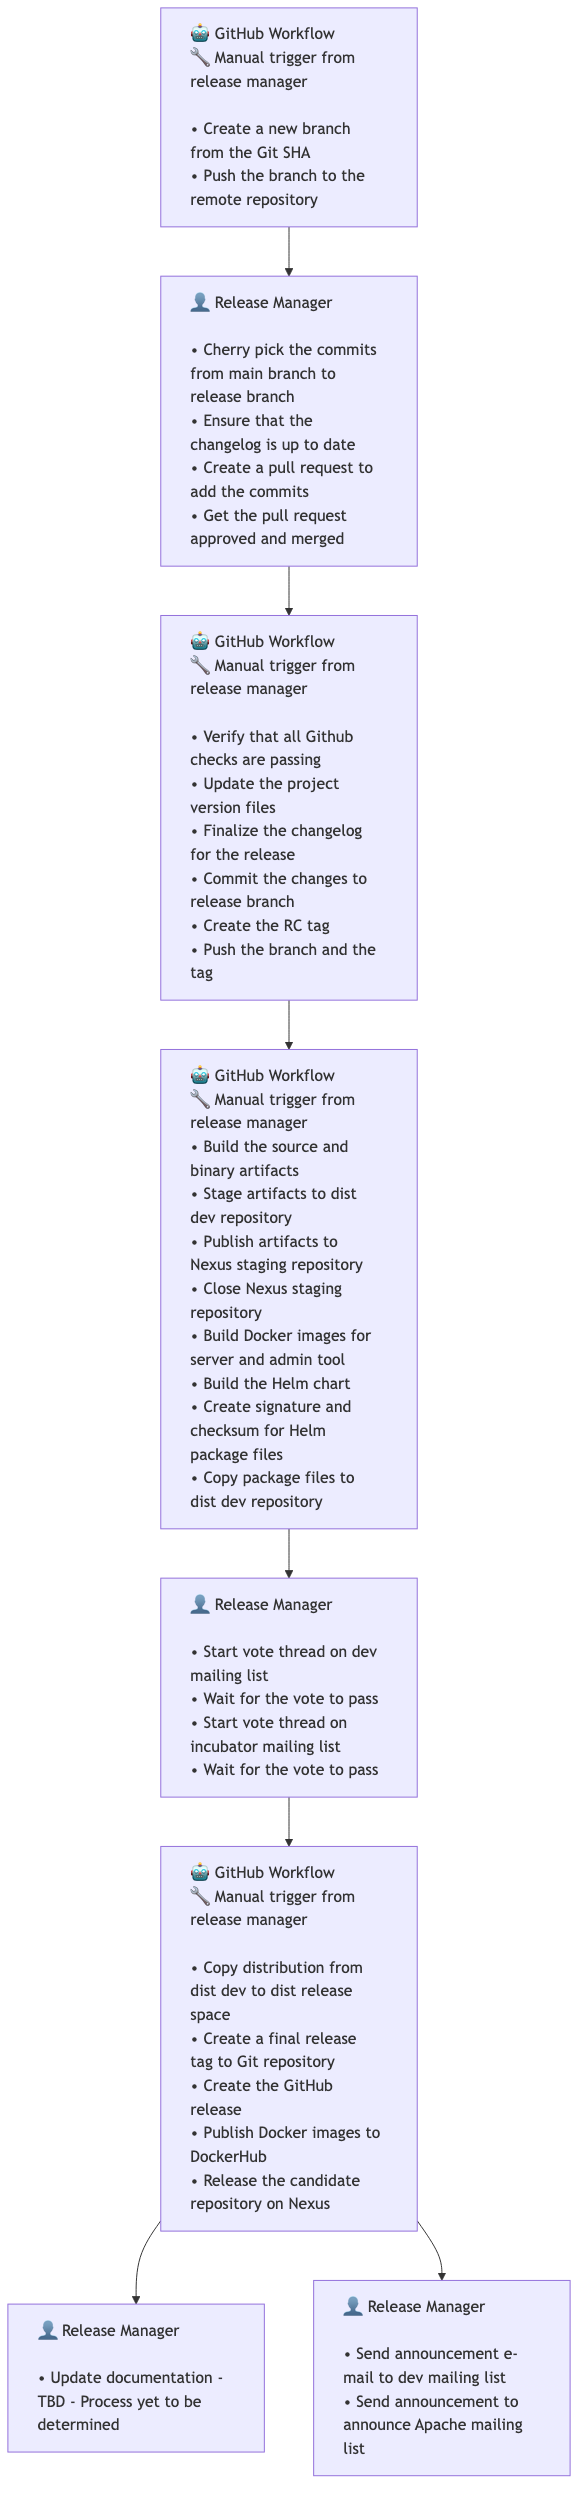
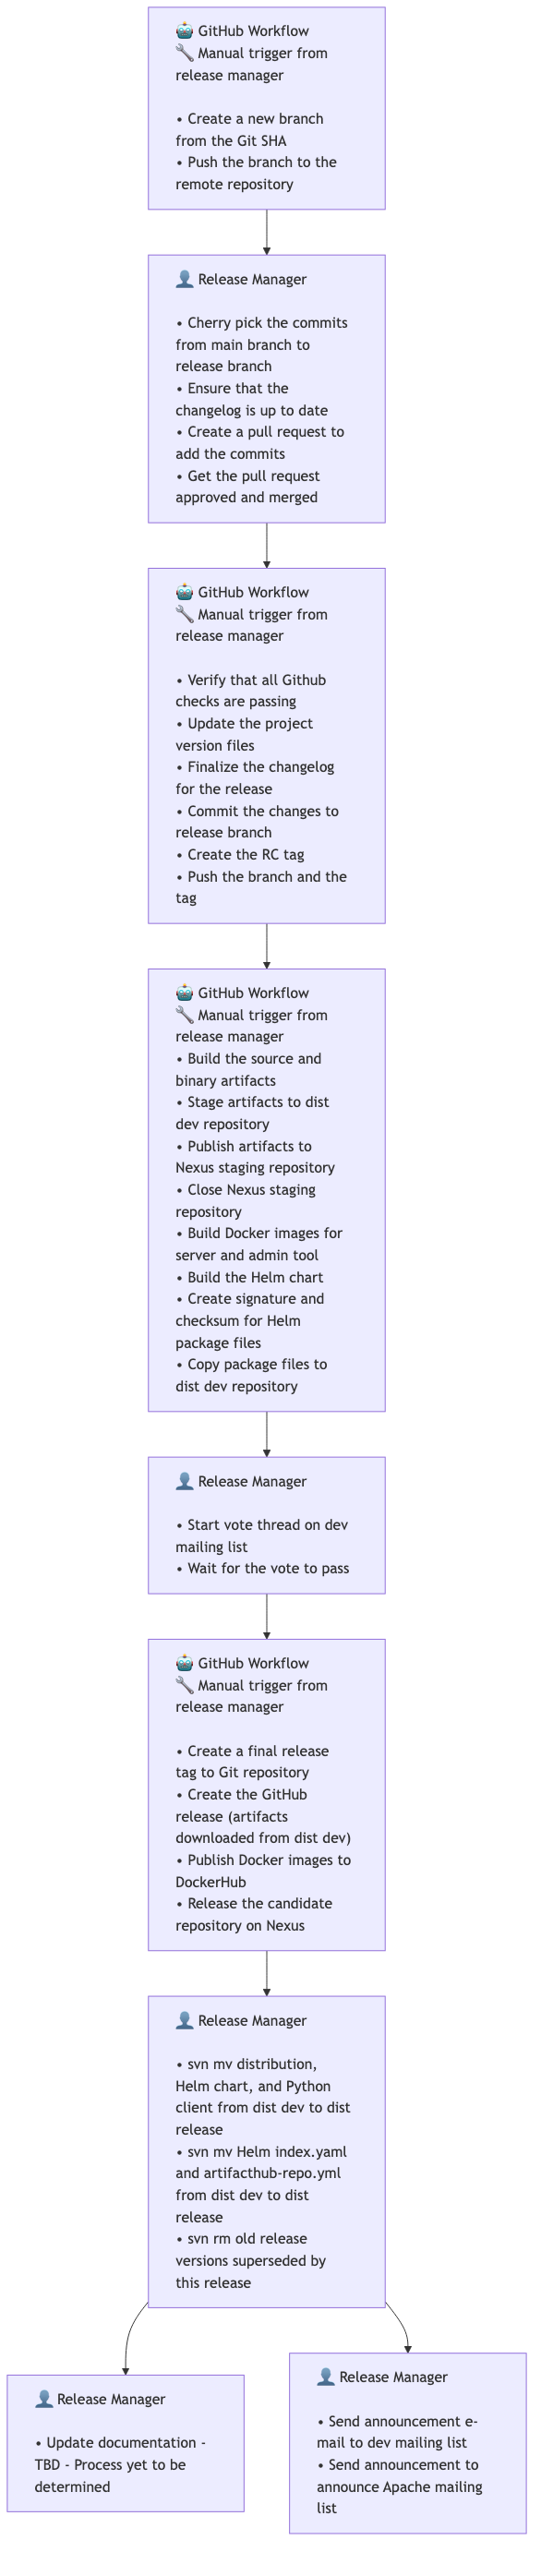
Release workflow 4: drop SVN release-area writes, document manual dev → release move
The credentials used by the release workflow do not have write access
to the dist release SVN area, so the dev → release move, the helm
index transfer, and the cleanup of superseded versions must be
performed manually by a PMC member after the workflow completes.
The remaining workflow steps (final tag, GitHub release, Docker push,
Nexus release) now read artifacts from dist dev via `svn export`,
leaving them in place for the manual move.

* Remove the three steps that wrote to `release/polaris` (artifact
  `svn mv`, old-version `svn rm`, and helm index `svn mv`).
* Switch the GitHub release and Python-client `svn export` sources
  from `release/polaris` to `dev/polaris`; non-destructive so the
  manual move remains possible.
* Update the workflow summary, releasey README, and the release
  process flowchart to describe the new manual step.
* Add a "Manual steps on dist.apache.org" subsection to the
  semi-automated release guide with the exact `svn` commands.

Changed region(s): [[0.3072, 0.0, 0.8908, 0.9913], [0.0614, 0.8983, 0.3686, 0.9913]]

diff --git a/site/content/community/release-guides/semi-automated-release-guide.md b/site/content/community/release-guides/semi-automated-release-guide.md
@@ -164,16 +164,60 @@ We will proceed with publishing the approved artifacts and sending out the annou
 ## Publish the release
 The final workflow to run is [`Release - 4 - Publish Release After Vote Success`](https://github.com/apache/polaris/actions/workflows/release-4-publish-release.yml). This workflow will:
 * Verify that the release branch HEAD matches the last RC tag
-* Copy artifacts from the dist dev to the dist release SVN repository
-* Update the Helm index in dist release repository accordingly
 * Create a final release tag
 * Rebuild and publish Docker images to Docker Hub
-* Create a Github release with the release artifacts
+* Create a Github release with the release artifacts (downloaded from dist dev)
 * Release the candidate repository on Apache Nexus
 
 This workflow can only be run from the `release/[major].[minor].x` branch for which a vote has passed. The workflow verifies that no commits have been added to the release branch since the last RC was created. It also requires the Nexus staging repository id (`orgapachepolaris-<ID>`) that was created by the previous workflow.
 
 ![Screenshot of the fourth release workflow for 1.3.0-incubating](/img/release-guides/github-workflow-4.png "Screenshot of the fourth release workflow for 1.3.0-incubating")
+
+### Manual steps on dist.apache.org
+
+The workflow does not move artifacts from the dist dev to the dist release SVN repository, because the credentials used by the workflow do not have write access to the release area. A PMC member (or release manager with Apache SVN credentials) must run the following commands manually after the workflow completes.
+
+Move the release artifacts, Helm chart, and Python client from `dev/polaris` to `release/polaris`:
+
+```
+svn mv https://dist.apache.org/repos/dist/dev/polaris/[major].[minor].[patch] \
+  https://dist.apache.org/repos/dist/release/polaris/[major].[minor].[patch] \
+  -m "Release Apache Polaris [major].[minor].[patch]"
+
+svn mv https://dist.apache.org/repos/dist/dev/polaris/helm-chart/[major].[minor].[patch] \
+  https://dist.apache.org/repos/dist/release/polaris/helm-chart/[major].[minor].[patch] \
+  -m "Release Apache Polaris Helm chart [major].[minor].[patch]"
+
+svn mv https://dist.apache.org/repos/dist/dev/polaris/python-client/[major].[minor].[patch] \
+  https://dist.apache.org/repos/dist/release/polaris/python-client/[major].[minor].[patch] \
+  -m "Release Apache Polaris Python client [major].[minor].[patch]"
+```
+
+Transfer the Helm index and Artifact Hub metadata from dist dev to dist release. If `index.yaml` and `artifacthub-repo.yml` already exist under `release/polaris/helm-chart/` (which is the case after the first release), remove them first or `svn mv` will fail with "already exists":
+
+```
+svn rm https://dist.apache.org/repos/dist/release/polaris/helm-chart/index.yaml \
+  https://dist.apache.org/repos/dist/release/polaris/helm-chart/artifacthub-repo.yml \
+  -m "Remove previous Helm index and artifacthub-repo.yml (superseded by [major].[minor].[patch])"
+
+svn mv https://dist.apache.org/repos/dist/dev/polaris/helm-chart/index.yaml \
+  https://dist.apache.org/repos/dist/dev/polaris/helm-chart/artifacthub-repo.yml \
+  https://dist.apache.org/repos/dist/release/polaris/helm-chart/ \
+  -m "Transfer Helm index and artifacthub-repo.yml for [major].[minor].[patch] release"
+```
+
+Finally, remove old release versions from `release/polaris`, `release/polaris/helm-chart`, and `release/polaris/python-client` that are superseded by the new release (ASF policy requires keeping only the current release in the `release/` area; older versions are archived automatically). For each old version directory listed by `svn list`:
+
+```
+svn rm https://dist.apache.org/repos/dist/release/polaris/[old-version] \
+  -m "Remove old release [old-version] (superseded by [major].[minor].[patch])"
+
+svn rm https://dist.apache.org/repos/dist/release/polaris/helm-chart/[old-version] \
+  -m "Remove old Helm chart [old-version] (superseded by [major].[minor].[patch])"
+
+svn rm https://dist.apache.org/repos/dist/release/polaris/python-client/[old-version] \
+  -m "Remove old Python client [old-version] (superseded by [major].[minor].[patch])"
+```
 
 ## Publish docs
 These steps have not been automated yet.

diff --git a/releasey/README.md b/releasey/README.md
@@ -46,10 +46,13 @@ The release automation is implemented through the following GitHub workflows:
    - Builds Docker images for server and admin tool
    - Builds Helm charts and stages them to dist dev repository
 4. **[Publish Release](../.github/workflows/release-4-publish-release.yml)** - Finalizes the release:
-   - Copies distribution from dist dev to dist release space
-   - Creates a final release tag and GitHub release
+   - Creates a final release tag and GitHub release (artifacts downloaded from dist dev)
    - Publishes Docker images to Docker Hub
    - Releases the candidate repository on Nexus
+   - Note: moving artifacts from `dist dev` to `dist release` and cleaning up superseded
+     versions in `dist release` are performed manually by a PMC member after this workflow,
+     because the workflow credentials do not have write access to the release area. See the
+     semi-automated release guide for the exact `svn` commands.
 
 ## Directory Structure
 